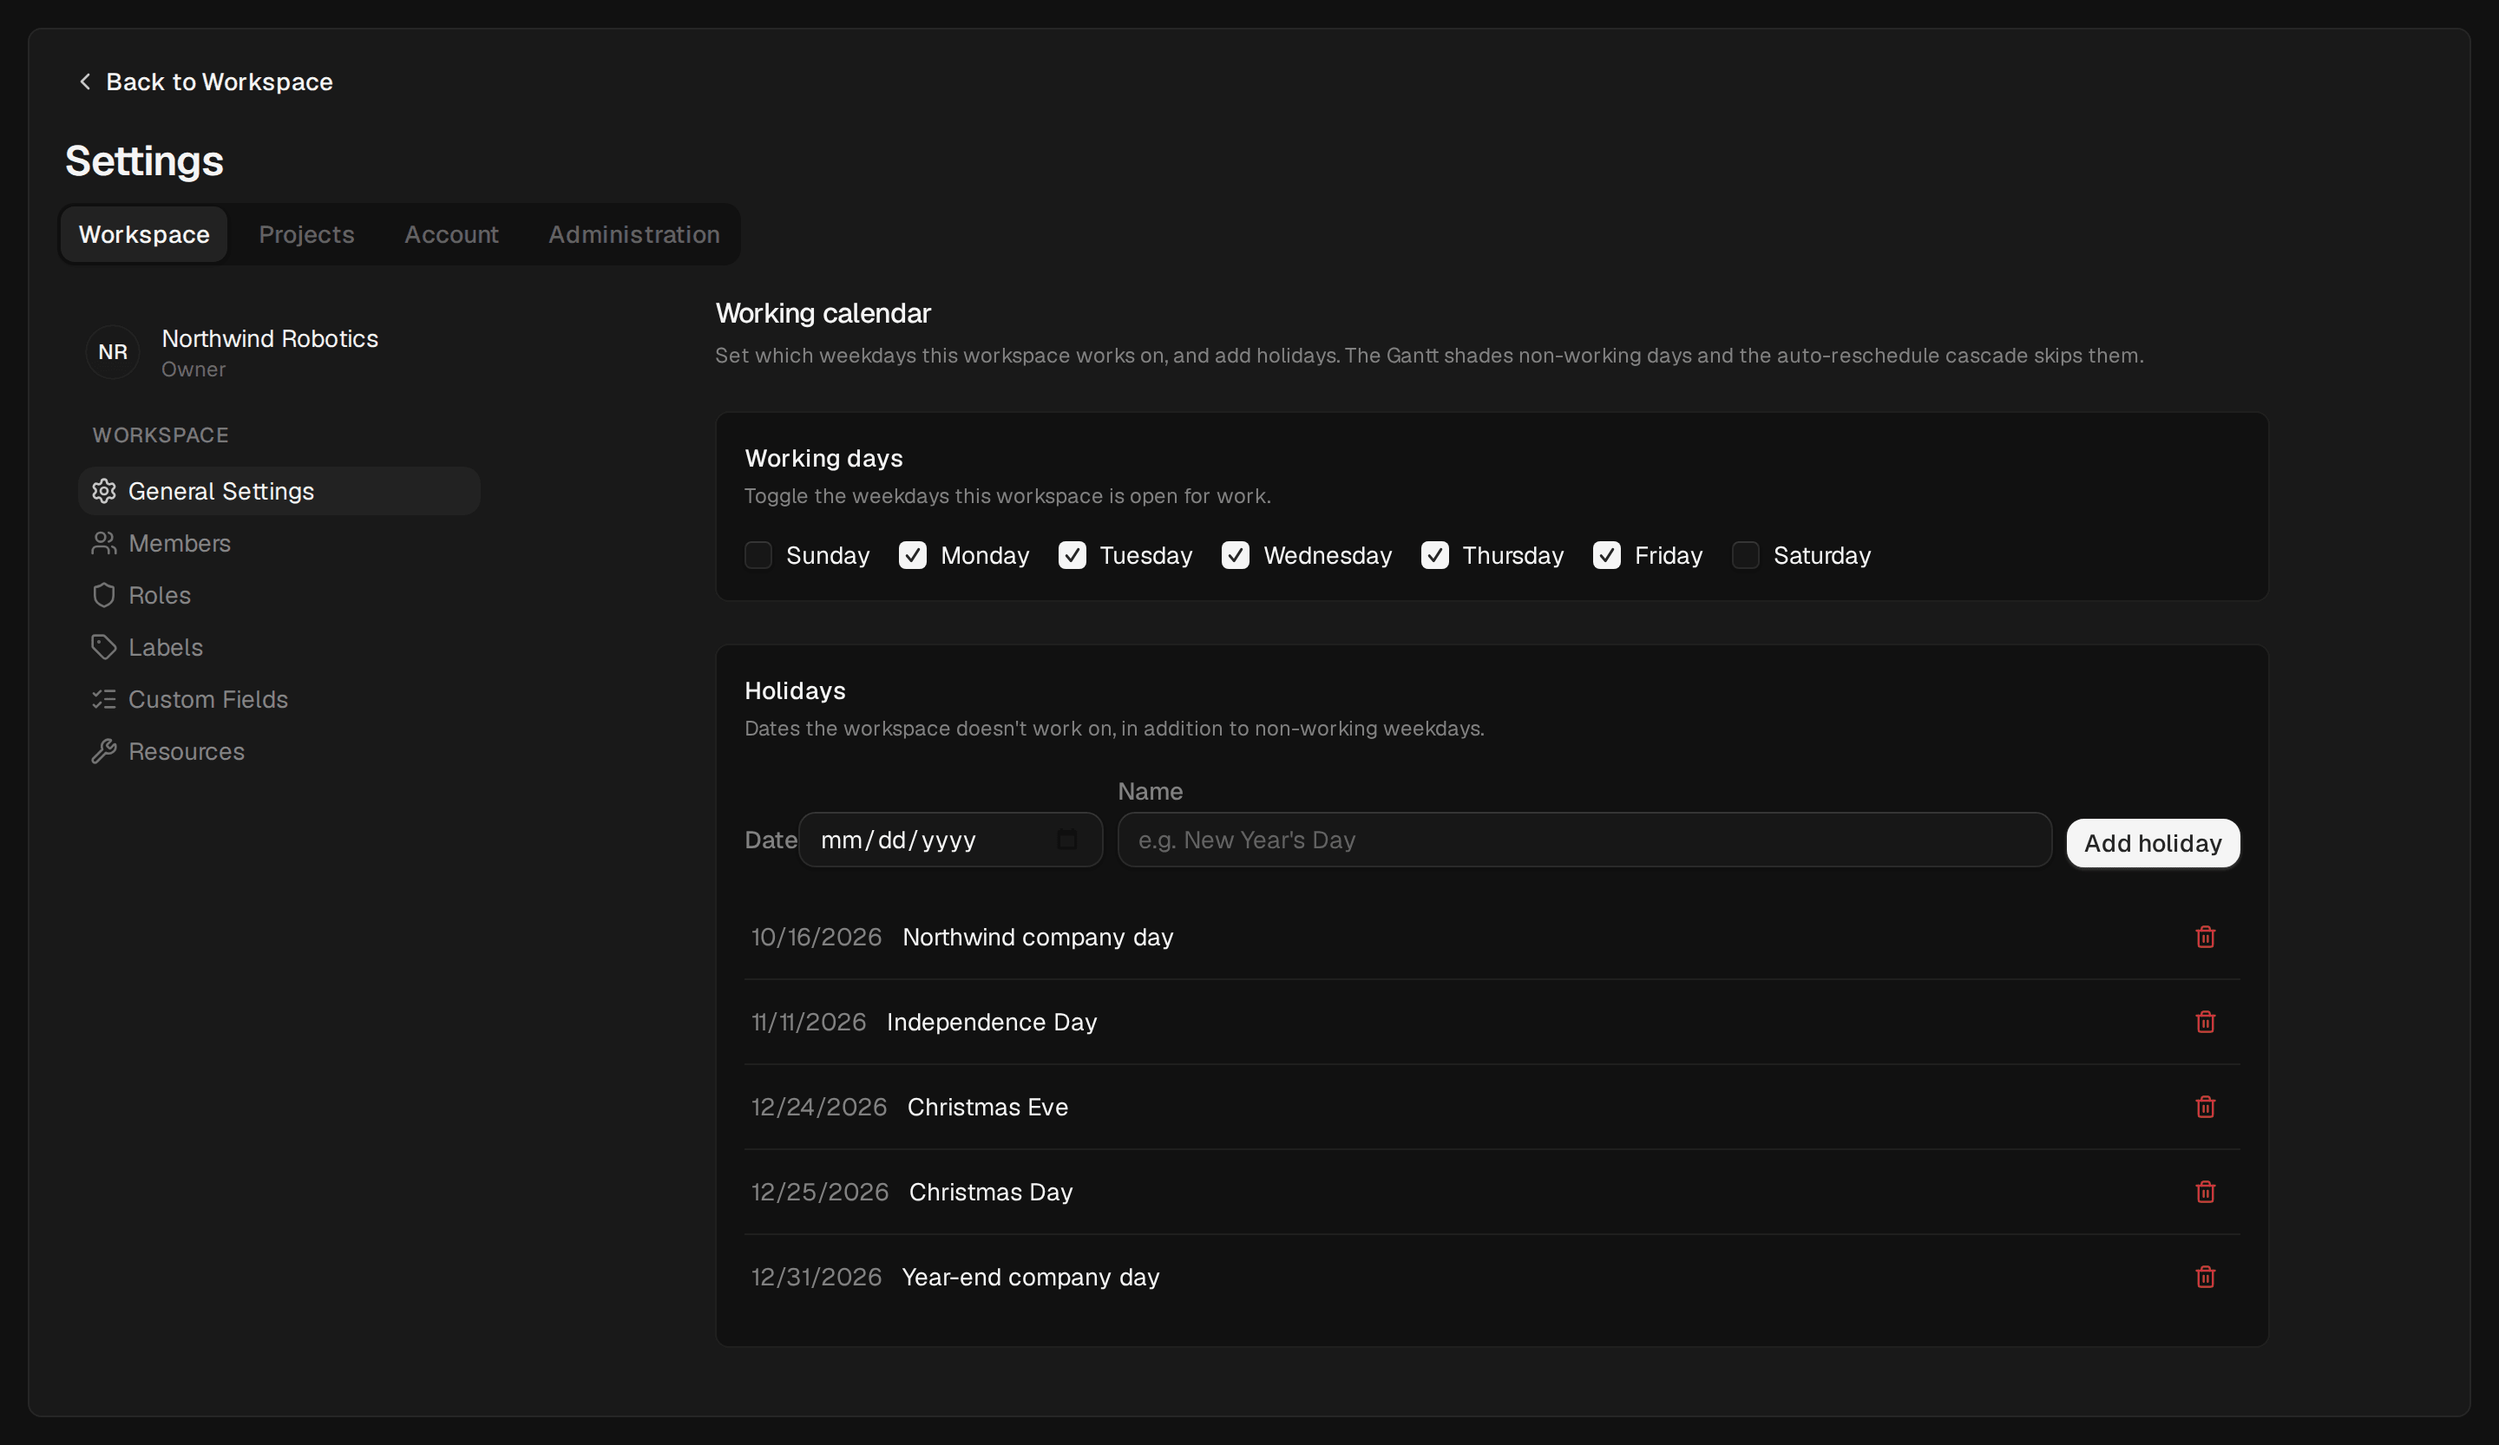
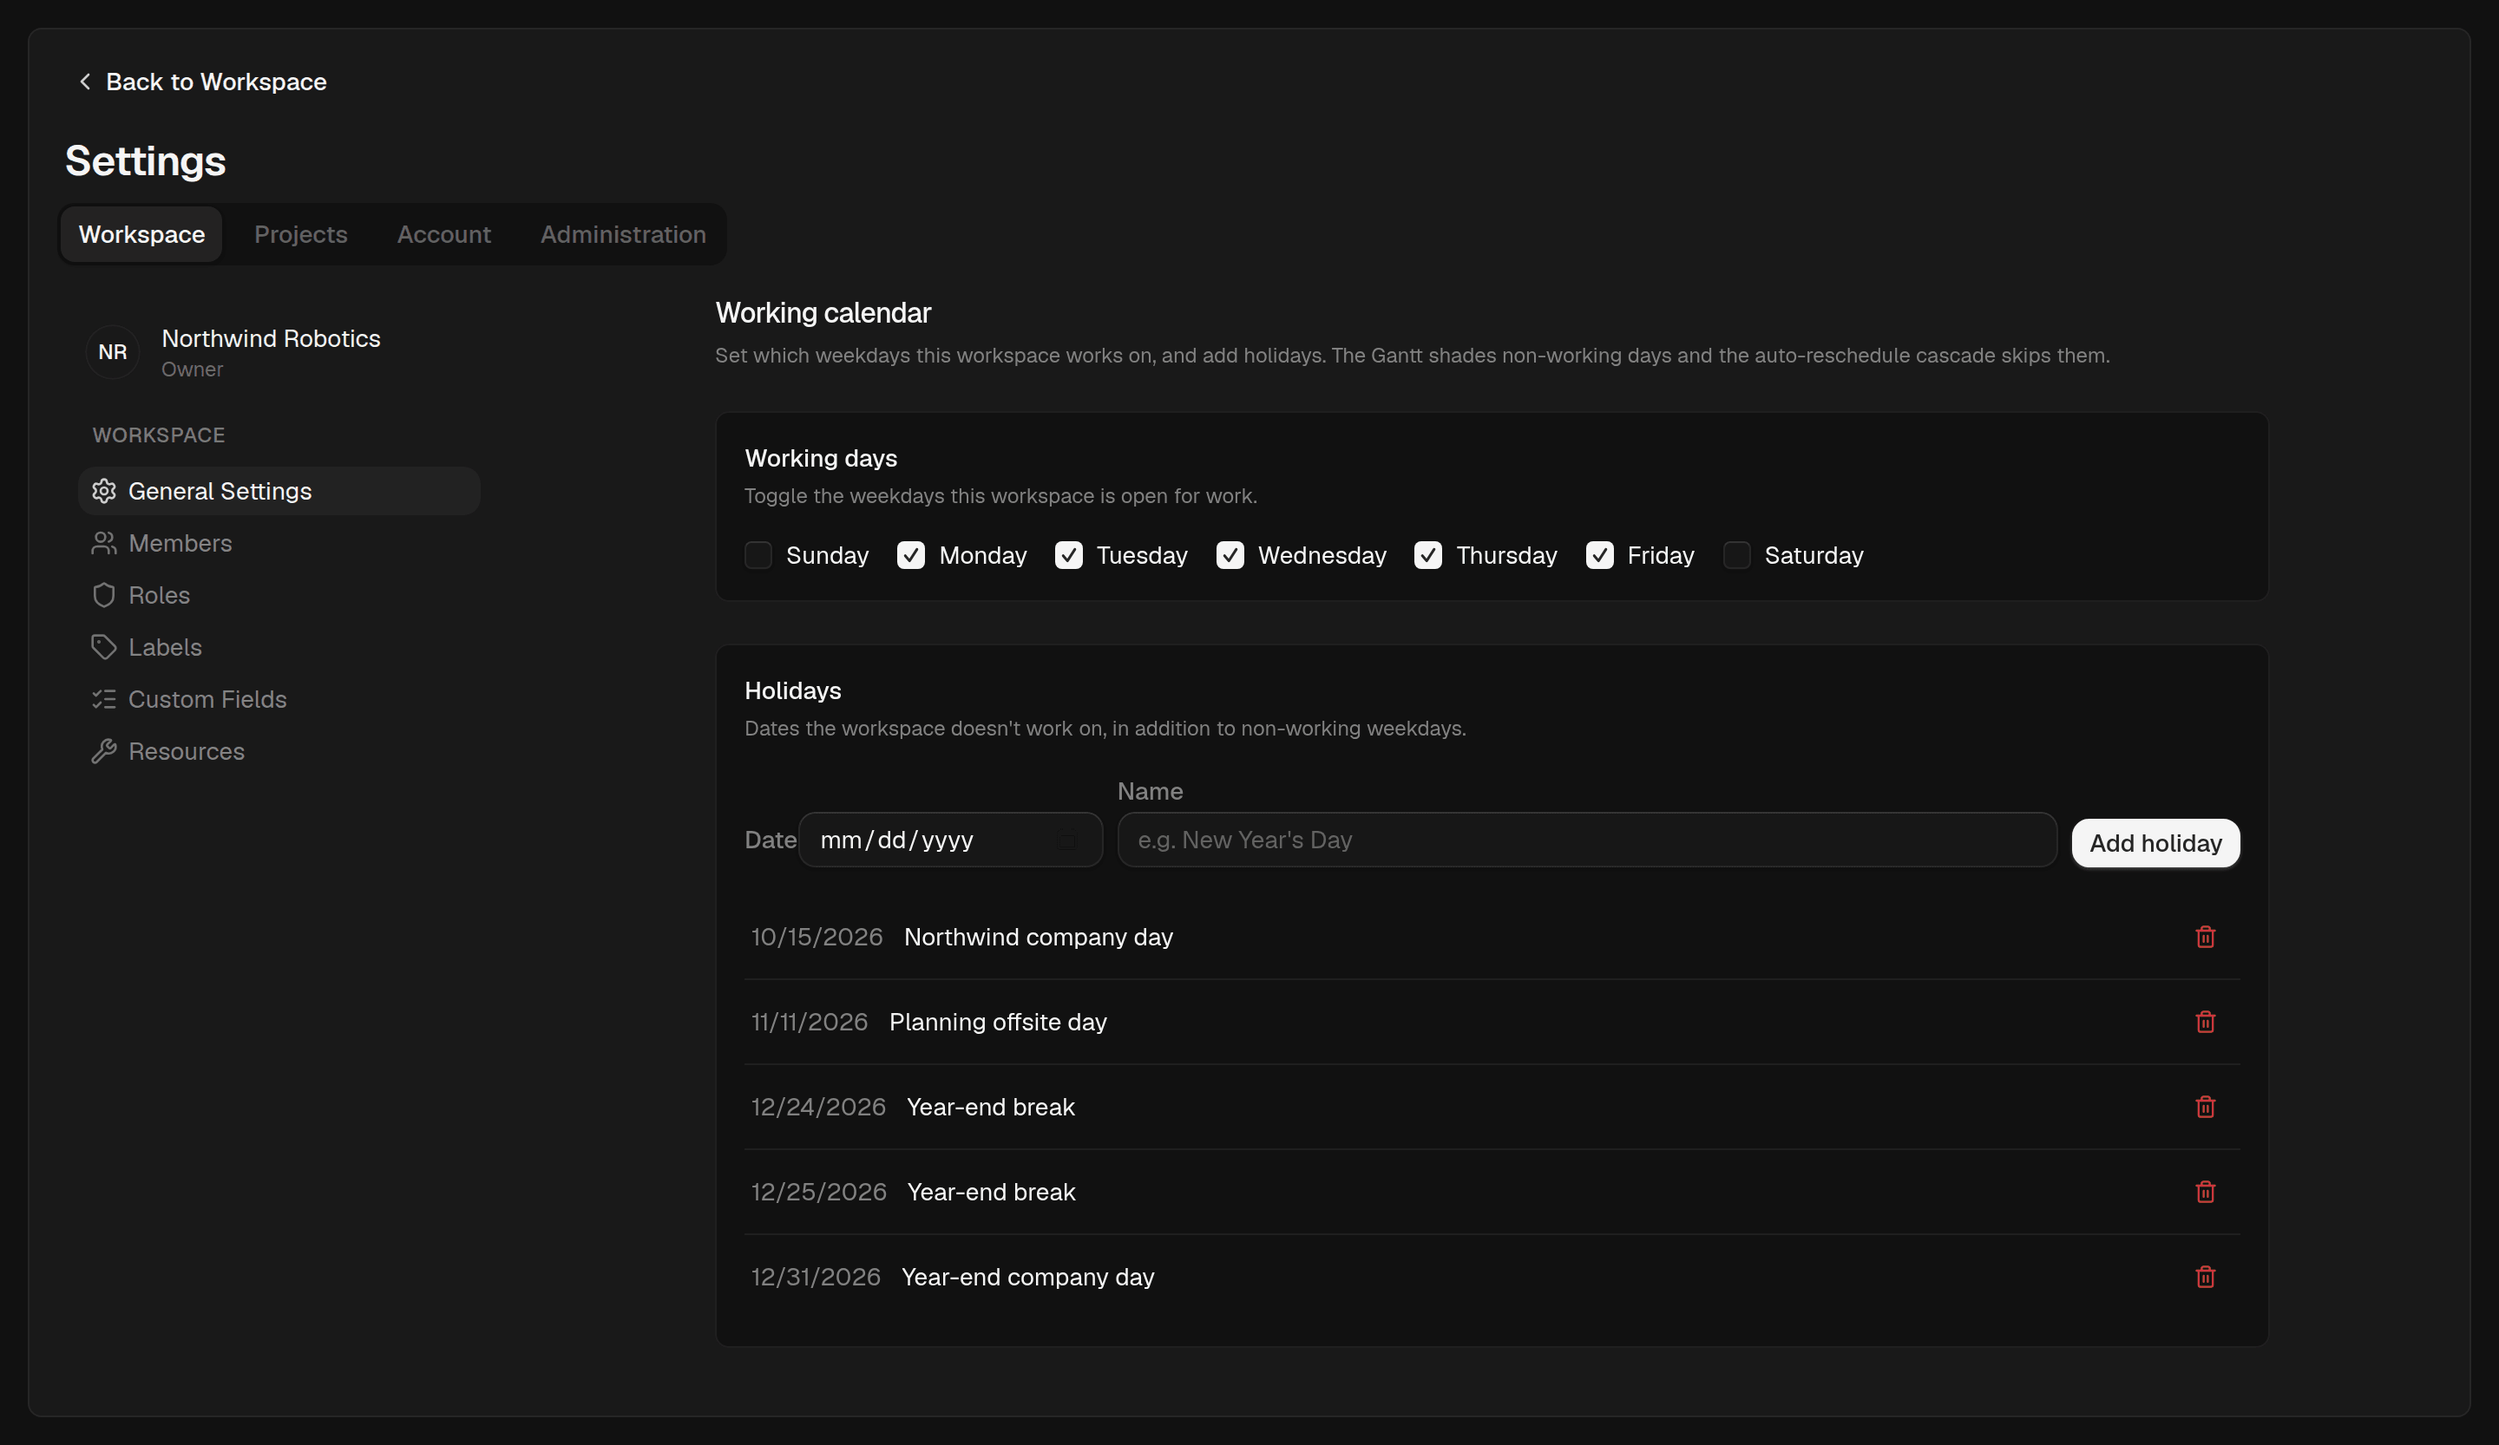
docs(readme): take the screenshots with the demo tool
Retake every screenshot with scripts/demo through
https://kaneopro.example.com: international names, neutral company
holidays, and the MCP page shows the public host instead of localhost.
Link the demo tool from the README and give the update-readme skill its
exact commands.

Claude-Session: https://claude.ai/code/session_01C6D3Mm2aELhmxTHQTVgKPz

diff --git a/.claude/skills/update-readme/SKILL.md b/.claude/skills/update-readme/SKILL.md
@@ -52,17 +52,36 @@ Rules:
 
 ## 4. Add or retake screenshots
 
-Use the demo tool. `scripts/demo/README.md` has the exact commands.
+Use the demo tool. `scripts/demo/README.md` explains every option.
 
-1. For a new UI feature, add its data to `scripts/demo/data.mjs` in the right layer: `base` only when upstream Kaneo has the feature, otherwise `pro`. Add a scene to `scripts/demo/capture.mjs`.
-2. Start the app behind the public hostname rehearsal, seed a fresh database, and capture only the scenes you need (`--only`).
-3. Keep the conventions from the README comment:
+1. For a new UI feature, add its data to `scripts/demo/data.mjs` in the right layer: `base` only when upstream Kaneo has the feature, otherwise `pro`. Add a scene to `scripts/demo/capture.mjs`. Run `node --test scripts/ci/demo-data.test.mjs`.
+2. Point the app at the public hostname, in two git-ignored files, then restart the API and the web app on an empty or disposable database:
+
+   ```sh
+   # .env
+   KANEO_CLIENT_URL=https://kaneopro.example.com
+   KANEO_API_URL=https://kaneopro.example.com
+   # apps/web/.env.development.local (apps/web/.env.local does not override the tracked .env.development)
+   VITE_API_URL=https://kaneopro.example.com/api
+   VITE_CLIENT_URL=https://kaneopro.example.com
+   ```
+
+3. Seed and capture through `https://kaneopro.example.com`, only the scenes you need:
+
+   ```sh
+   npm --prefix scripts/demo ci
+   npm --prefix scripts/demo run setup        # or pass --chromium <path> / set KANEO_DEMO_CHROMIUM
+   node scripts/demo/public-host.mjs --only 04,11
+   ```
+
+   Afterwards, remove the two variables from `.env`, delete `apps/web/.env.development.local` and restart.
+4. Keep the conventions from the README comment:
    - dark theme;
    - a 1440 CSS px viewport at 2x, cropped to the content;
    - fictional data (Northwind Robotics, international names, `@example.com`);
    - no `localhost`, no tokens.
-4. Look at every new or changed PNG. Retake it when it is clipped, empty or shows a loading state. When the app itself renders the feature wrongly, leave the scene out and report the bug instead.
-5. Name a new file with the next free two-digit prefix. Use a letter suffix (`07b`) for a second image in the same section. Delete a PNG that the README no longer uses.
+5. Look at every new or changed PNG. Retake it when it is clipped, empty or shows a loading state. When the app itself renders the feature wrongly, leave the scene out and report the bug instead.
+6. Name a new file with the next free two-digit prefix. Use a letter suffix (`07b`) for a second image in the same section. Delete a PNG that the README no longer uses.
 
 ## 5. Finish
 

diff --git a/README.md b/README.md
@@ -32,7 +32,7 @@ Kaneo Pro is an independent fork of [Kaneo](https://github.com/usekaneo/kaneo), 
 
 Kaneo Pro is not affiliated with or endorsed by the Kaneo team. It is based on upstream `main` of 2026-09-26 and takes in upstream changes through a weekly sync (see [Staying in sync with upstream](#staying-in-sync-with-upstream)).
 
-This page covers what Kaneo Pro adds. For everything the two share, see the [Kaneo documentation](https://kaneo.app/docs/core). All screenshots show fictional demo data.
+This page covers what Kaneo Pro adds. For everything the two share, see the [Kaneo documentation](https://kaneo.app/docs/core). All screenshots show fictional demo data from the [demo tool](scripts/demo/README.md).
 
 ## Kaneo vs Kaneo Pro
 
@@ -267,6 +267,8 @@ pnpm dev              # API on port 1337, web app on port 5173
 ```
 
 Use Node.js 24 and pnpm 10.32.1. See the [environment setup guide](ENVIRONMENT_SETUP.md). Contributors and coding agents start with [AGENTS.md](AGENTS.md).
+
+To fill a local instance with the fictional data from the screenshots, run `node scripts/demo/seed.mjs --reset` and sign in as `claire@example.com` with the password `DemoPass123!`. The [demo tool](scripts/demo/README.md) also takes the screenshots and prepares a public demo instance.
 
 ## Configuration
 
